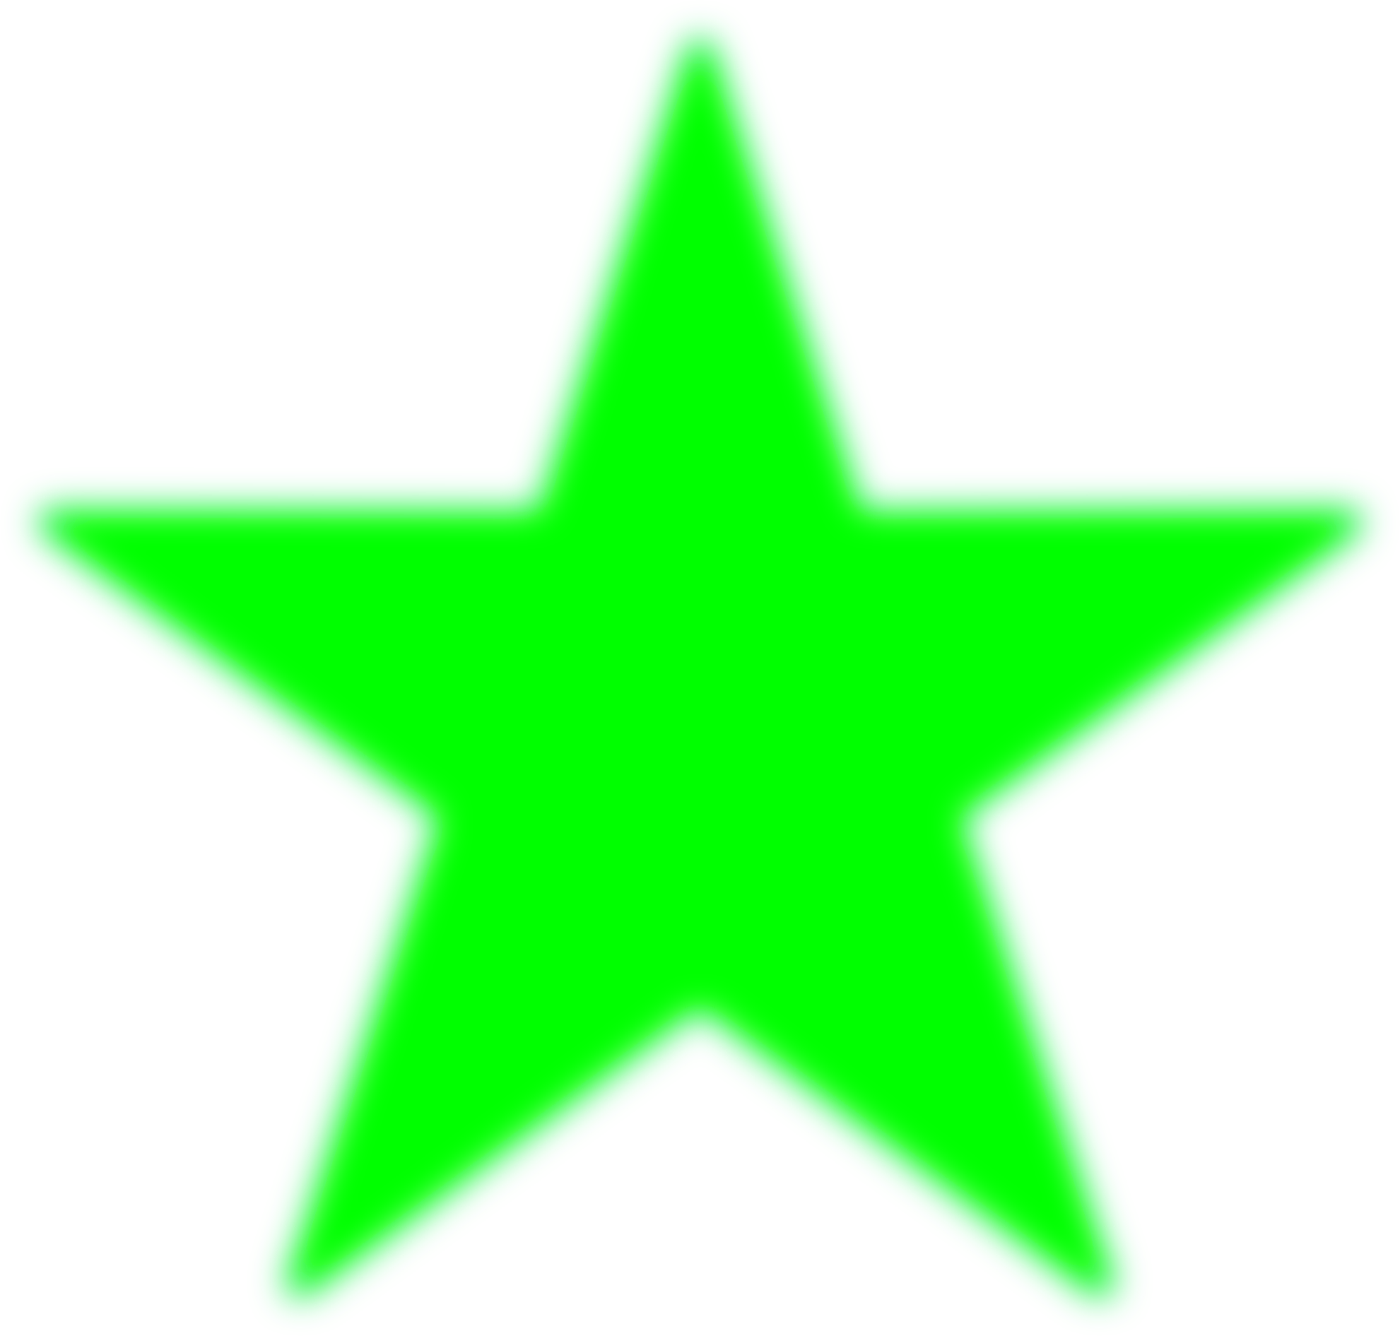
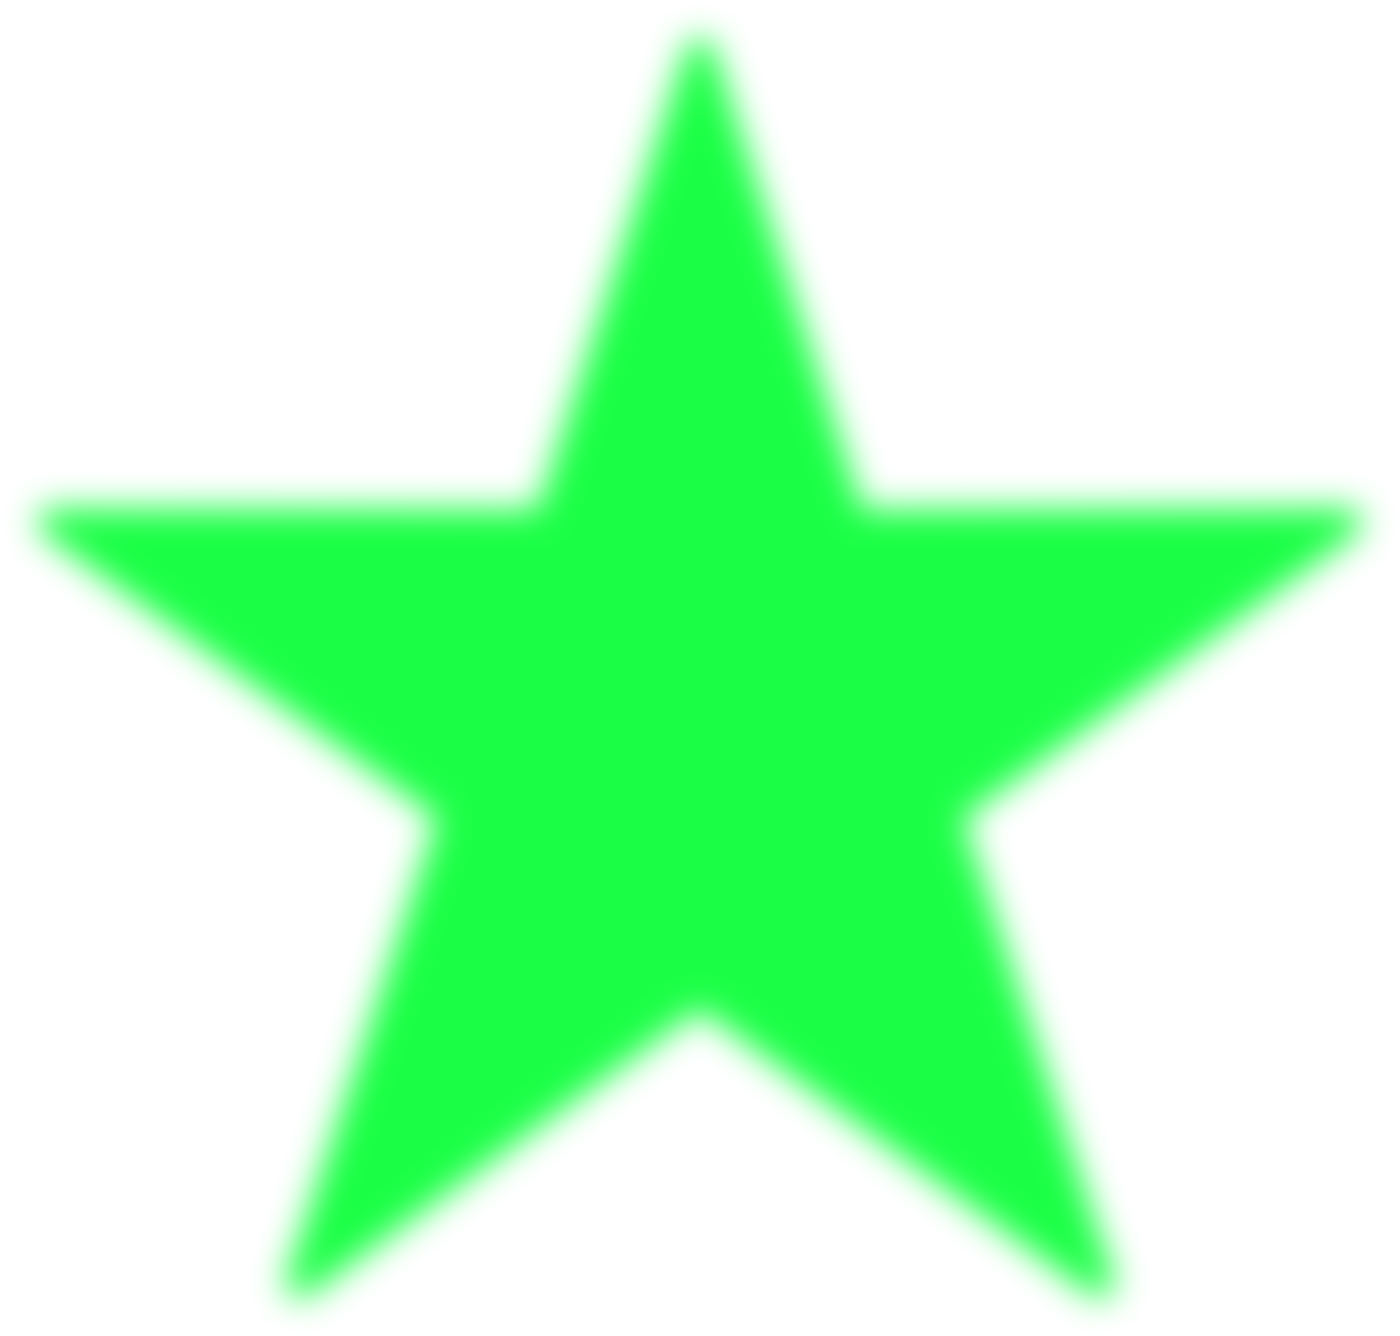
Double the info star size, recolor to #1aff45, revert slideshow slide animation
The star overlay was too small next to the supplied mockup — doubled
its clamp()'d width (260–560px -> 520–1120px) so it reads the same
way the reference comp did. Recolored the star glow from pure green
to #1aff45 by replacing RGB while keeping the original alpha channel,
so the glow/blur shape is pixel-identical, just a different hue.

The slide-in/out transition from the previous commit had a visible
bug in practice (images appeared to zoom before sliding out), so
reverting the Slideshow component back to its plain instant-swap
behavior rather than attempting a fix blind, without access to the
live site's real images to verify against.

Claude-Session: https://claude.ai/code/session_0168CQLnimQuTAL53jTSDYj4

diff --git a/src/home/slideshow/index.jsx b/src/home/slideshow/index.jsx
@@ -28,50 +28,12 @@ export const Slideshow = ({
   const readyIndicesRef = useRef(new Set());
   const [, forceUpdate] = useState(0);
 
-  // Slide transition: while `slide` is set, both the outgoing
-  // (slide.fromIndex) and incoming (slide.toIndex, === currentIndex)
-  // images render stacked and full-size, and `slideActive` flips one
-  // frame later to animate both from their start position to 0 — the
-  // outgoing sliding off in the direction of travel, the incoming
-  // sliding in from the opposite side it's coming from.
-  const [slide, setSlide] = useState(null);
-  const [slideActive, setSlideActive] = useState(false);
-  const slideRafRef = useRef(null);
-  const slideTimeoutRef = useRef(null);
-  const SLIDE_MS = 420;
-  const prefersReducedMotion =
-    typeof window !== 'undefined' &&
-    window.matchMedia?.('(prefers-reduced-motion: reduce)').matches;
-
   // Reset position if the underlying image pool changes identity
   // (e.g. CategoryPage mounted with a different category).
   useEffect(() => {
     setCurrentIndex(0);
     readyIndicesRef.current = new Set();
-    setSlide(null);
-    setSlideActive(false);
   }, [images]);
-
-  // Drive the two-frame "start position painted, then animate to 0"
-  // sequence, and clear the transition once it's finished.
-  useEffect(() => {
-    if (!slide) return undefined;
-
-    setSlideActive(false);
-    const raf1 = requestAnimationFrame(() => {
-      slideRafRef.current = requestAnimationFrame(() => setSlideActive(true));
-    });
-    slideTimeoutRef.current = setTimeout(() => {
-      setSlide(null);
-      setSlideActive(false);
-    }, SLIDE_MS + 40);
-
-    return () => {
-      cancelAnimationFrame(raf1);
-      if (slideRafRef.current) cancelAnimationFrame(slideRafRef.current);
-      clearTimeout(slideTimeoutRef.current);
-    };
-  }, [slide]);
 
   useEffect(() => {
     onIndexChange?.(currentIndex, images.length);
@@ -91,29 +53,15 @@ export const Slideshow = ({
     return getOriginalForOrder(img.order)?.url || null;
   };
 
-  // Shared by goNext/goPrev: advances currentIndex and, when there's
-  // more than one image to slide between, records the outgoing index
-  // so the render below can animate both the old and new image.
-  // Ignored while a transition is already in flight, so a rapid
-  // double-click can't start a second animation out from under the
-  // first one.
-  const navigate = (computeNext, direction) => {
-    if (slide) return;
-    directionRef.current = direction;
-    if (images.length < 2 || prefersReducedMotion) {
-      setCurrentIndex(computeNext);
-      return;
-    }
-    setCurrentIndex(prevIndex => {
-      const nextIndex = computeNext(prevIndex);
-      setSlide({ fromIndex: prevIndex, toIndex: nextIndex, direction });
-      return nextIndex;
-    });
+  const goNext = () => {
+    directionRef.current = 'forward';
+    setCurrentIndex(prev => (prev + 1) % images.length);
   };
 
-  const goNext = () => navigate(prev => (prev + 1) % images.length, 'forward');
-
-  const goPrev = () => navigate(prev => (prev - 1 + images.length) % images.length, 'backward');
+  const goPrev = () => {
+    directionRef.current = 'backward';
+    setCurrentIndex(prev => (prev - 1 + images.length) % images.length);
+  };
 
   const encodeToBase64 = str => {
     return window.btoa(unescape(encodeURIComponent(str)));
@@ -209,54 +157,9 @@ export const Slideshow = ({
       {poolIndices.map(idx => {
         const image = images[idx];
         const isCurrent = idx === currentIndex;
-        const isSlideOutgoing = slide && idx === slide.fromIndex;
-        const isSlideIncoming = slide && idx === slide.toIndex;
-        // Defer rendering pool images until the current image's original
-        // has loaded — except the two images actively sliding, which must
-        // always render together or the outgoing one can get briefly
-        // culled right as the transition starts (it isn't "current" the
-        // instant currentIndex flips) and then mount straight into its
-        // end position with nothing to animate from, snapping instead of
-        // sliding.
+        // Defer rendering pool images until the current image's original has loaded
         const currentIsReady = readyIndicesRef.current.has(currentIndex);
-        if (!isCurrent && !currentIsReady && !isSlideOutgoing && !isSlideIncoming) return null;
-
-        let itemStyle;
-        if (isSlideOutgoing || isSlideIncoming) {
-          // Forward: incoming enters from the right (+100% -> 0),
-          // outgoing exits to the left (0 -> -100%). Backward: mirrored.
-          const sign = slide.direction === 'forward' ? 1 : -1;
-          const startX = isSlideIncoming ? sign * 100 : 0;
-          const endX = isSlideIncoming ? 0 : -sign * 100;
-          itemStyle = {
-            position: 'absolute',
-            inset: 0,
-            zIndex: isSlideIncoming ? 2 : 1,
-            visibility: image ? 'visible' : 'hidden',
-            cursor: isSlideIncoming ? cursorStyle : 'default',
-            transform: `translateX(${slideActive ? endX : startX}%)`,
-            transition: `transform ${SLIDE_MS}ms cubic-bezier(0.45, 0, 0.2, 1)`,
-          };
-        } else {
-          itemStyle = {
-            ...styles.image,
-            ...(isCurrent
-              ? {
-                  cursor: cursorStyle,
-                  visibility: image ? 'visible' : 'hidden',
-                }
-              : {
-                  position: 'absolute',
-                  top: 0,
-                  left: 0,
-                  right: 0,
-                  bottom: 0,
-                  opacity: 0,
-                  pointerEvents: 'none',
-                }),
-          };
-        }
-
+        if (!isCurrent && !currentIsReady) return null;
         return (
           <ImageComponent
             key={idx}
@@ -264,7 +167,23 @@ export const Slideshow = ({
             originalUrl={getOriginalUrl(idx)}
             loading='eager'
             onOriginalLoad={() => handleOriginalLoad(idx)}
-            style={itemStyle}
+            style={{
+              ...styles.image,
+              ...(isCurrent
+                ? {
+                    cursor: cursorStyle,
+                    visibility: image ? 'visible' : 'hidden',
+                  }
+                : {
+                    position: 'absolute',
+                    top: 0,
+                    left: 0,
+                    right: 0,
+                    bottom: 0,
+                    opacity: 0,
+                    pointerEvents: 'none',
+                  }),
+            }}
           />
         );
       })}

diff --git a/src/home/contacts/styles.js b/src/home/contacts/styles.js
@@ -17,7 +17,7 @@ export const styles = {
 
   starWrap: {
     position: 'relative',
-    width: 'clamp(260px, 56vw, 560px)',
+    width: 'clamp(520px, 112vw, 1120px)',
     cursor: 'default',
   },
 
